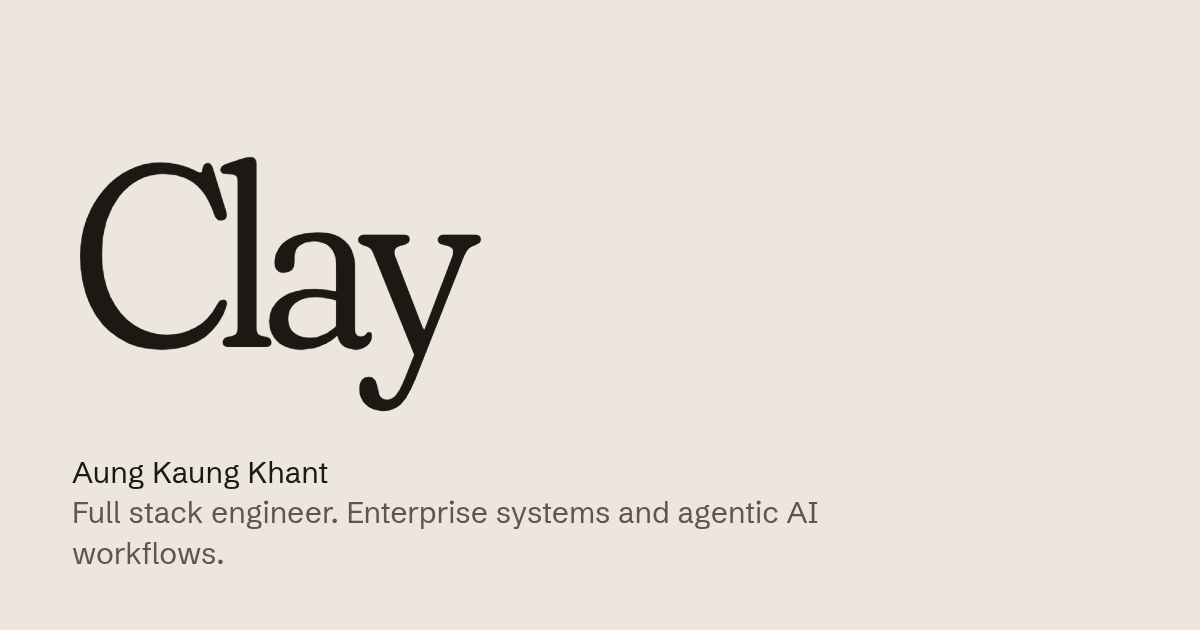
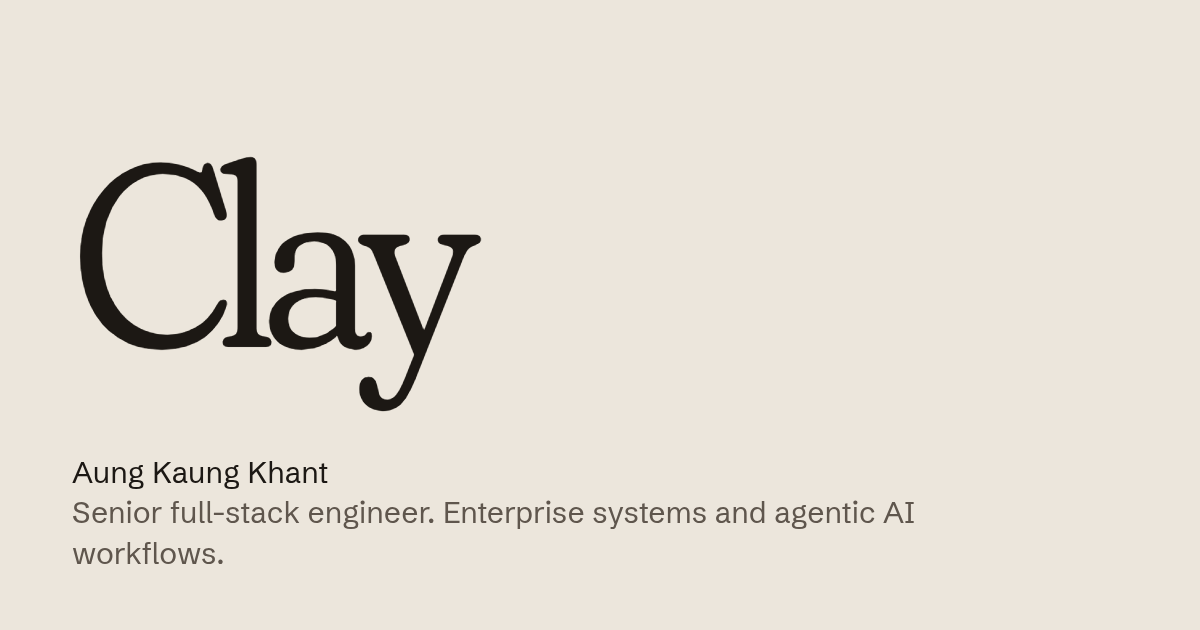
copy: Senior Full-stack Engineer across site, share image and email signature

Changed region(s): [[0.0617, 0.7841, 0.7708, 0.8444]]

diff --git a/frontend/index.html b/frontend/index.html
@@ -4,19 +4,19 @@
   <meta charset="utf-8">
   <meta name="viewport" content="width=device-width, initial-scale=1, viewport-fit=cover">
   <title>Clay · Aung Kaung Khant</title>
-  <meta name="description" content="Aung Kaung Khant (Clay), full stack engineer building agentic AI workflows into enterprise systems, and founder of MR ROBOT by Optimus Technica in Yangon.">
+  <meta name="description" content="Aung Kaung Khant (Clay), senior full-stack engineer building agentic AI workflows into enterprise systems, and founder of MR ROBOT by Optimus Technica in Yangon.">
   <link rel="canonical" href="https://www.aungkaungkhant.work/">
   <meta property="og:type" content="website">
   <meta property="og:site_name" content="Clay · Aung Kaung Khant">
   <meta property="og:title" content="Clay · Aung Kaung Khant">
-  <meta property="og:description" content="Aung Kaung Khant (Clay), full stack engineer building agentic AI workflows into enterprise systems, and founder of MR ROBOT by Optimus Technica in Yangon.">
+  <meta property="og:description" content="Aung Kaung Khant (Clay), senior full-stack engineer building agentic AI workflows into enterprise systems, and founder of MR ROBOT by Optimus Technica in Yangon.">
   <meta property="og:url" content="https://www.aungkaungkhant.work/">
   <meta property="og:image" content="https://www.aungkaungkhant.work/og.png">
   <meta property="og:image:width" content="1200">
   <meta property="og:image:height" content="630">
   <meta name="twitter:card" content="summary_large_image">
   <meta name="twitter:title" content="Clay · Aung Kaung Khant">
-  <meta name="twitter:description" content="Aung Kaung Khant (Clay), full stack engineer building agentic AI workflows into enterprise systems, and founder of MR ROBOT by Optimus Technica in Yangon.">
+  <meta name="twitter:description" content="Aung Kaung Khant (Clay), senior full-stack engineer building agentic AI workflows into enterprise systems, and founder of MR ROBOT by Optimus Technica in Yangon.">
   <meta name="twitter:image" content="https://www.aungkaungkhant.work/og.png">
   <script type="application/ld+json">
 {
@@ -24,7 +24,7 @@
   "@type": "Person",
   "name": "Aung Kaung Khant",
   "alternateName": "Clay",
-  "jobTitle": "Full Stack Engineer",
+  "jobTitle": "Senior Full-stack Engineer",
   "url": "https://www.aungkaungkhant.work/",
   "image": "https://www.aungkaungkhant.work/clay.jpg",
   "address": {
@@ -68,10 +68,10 @@
   <main>
     <section class="hero" id="top" tabindex="-1" data-stage>
       <div class="hero-copy">
-        <p class="hero-lede">Full stack engineer. I build enterprise systems and the agentic AI workflows that run inside them.</p>
+        <p class="hero-lede">Senior full-stack engineer. I build enterprise systems and the agentic AI workflows that run inside them.</p>
         <div class="hero-byline">
           <img class="hero-portrait" src="/clay.jpg" alt="Aung Kaung Khant" width="600" height="600" decoding="async">
-          <p class="hero-meta">Aung Kaung Khant · Full Stack Engineer at SparksBM · Founder of MR ROBOT · Yangon</p>
+          <p class="hero-meta">Aung Kaung Khant · Senior Full-stack Engineer at SparksBM · Founder of MR ROBOT · Yangon</p>
         </div>
       </div>
       <h1 class="hero-title" aria-label="Clay">Clay</h1>
@@ -85,7 +85,7 @@
         <li class="role">
           <p class="role-when">Dec 2025 to Present</p>
           <div class="role-body">
-            <h3>Full Stack Engineer</h3>
+            <h3>Senior Full-stack Engineer</h3>
             <p class="role-where">SparksBM Investment · Singapore, remote</p>
             <p>Own two enterprise platforms at once, a multi-tenant SaaS and an AI-integrated ecosystem, built on Java Spring Boot, modern JavaScript and Google Cloud, including all DevOps. Designed agentic AI workflows inside ERP integration pipelines that automate cross-system data flows.</p>
             <p class="role-tags">Agentic AI · Java Spring Boot · Python · Google Cloud · DevOps</p>

diff --git a/backend/src/email/contact-notification.js b/backend/src/email/contact-notification.js
@@ -116,7 +116,7 @@ function renderContactNotification({ name, email, company = '', message, receive
             <td style="padding:24px 36px 32px;border-top:1px solid ${COLORS.line};">
               <img src="${logoSrc}" width="44" height="28" alt="Clay" style="display:block;border:0;width:44px;height:28px;">
               <p style="margin:10px 0 0;font:500 14px/1.5 ${SANS};color:${COLORS.ink};">Aung Kaung Khant</p>
-              <p style="margin:0;font:400 13px/1.5 ${SANS};color:${COLORS.muted};">Full Stack Engineer · Founder of MR ROBOT · Yangon</p>
+              <p style="margin:0;font:400 13px/1.5 ${SANS};color:${COLORS.muted};">Senior Full-stack Engineer · Founder of MR ROBOT · Yangon</p>
               <p style="margin:8px 0 0;font:400 13px/1.5 ${SANS};">
                 <a href="${SITE}" style="color:${COLORS.ink};text-decoration:none;">aungkaungkhant.work</a>
                 <span style="color:${COLORS.muted};">&nbsp;·&nbsp;</span>
@@ -148,7 +148,7 @@ function renderContactNotification({ name, email, company = '', message, receive
     '',
     '--',
     'Aung Kaung Khant (Clay)',
-    'Full Stack Engineer · Founder of MR ROBOT · Yangon',
+    'Senior Full-stack Engineer · Founder of MR ROBOT · Yangon',
     'aungkaungkhant.work',
   ].join('\n');
 
